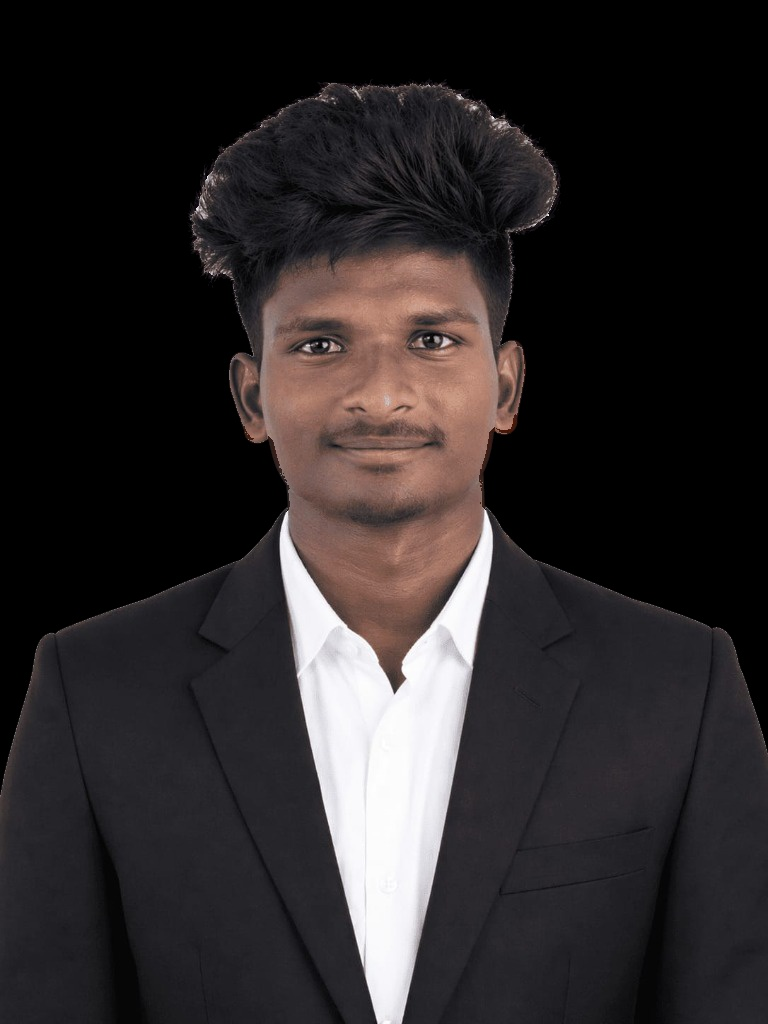
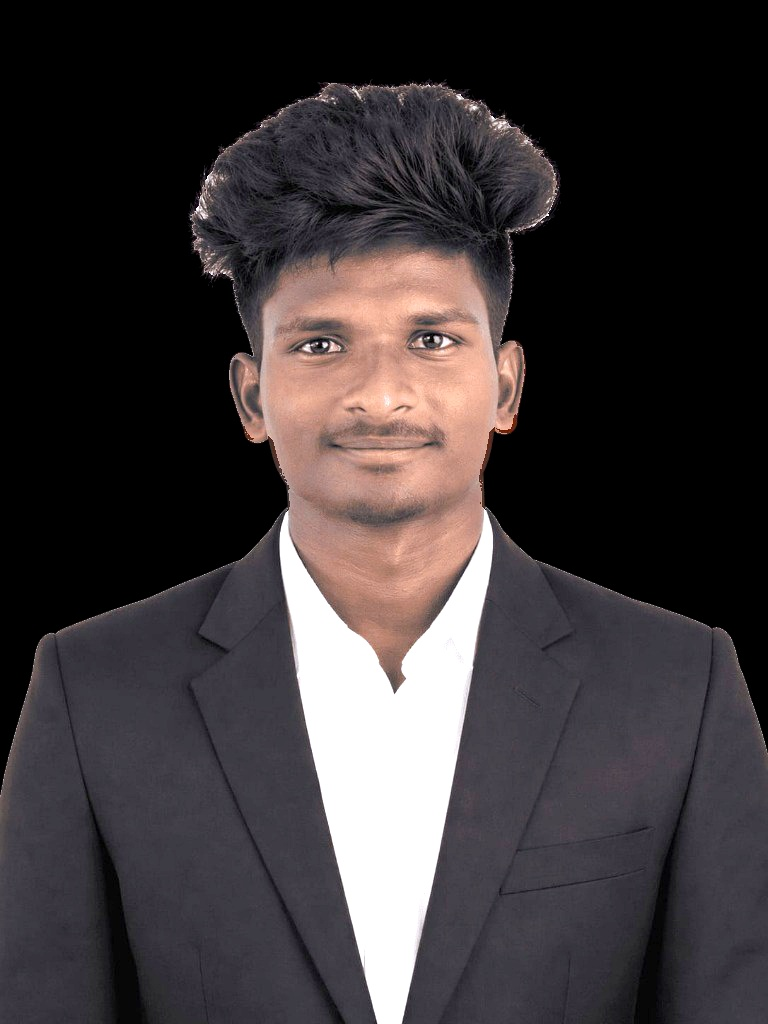
Brighten Bala face portrait and enable direct student confirmation email autoresponse

diff --git a/code.html b/code.html
@@ -2245,33 +2245,53 @@ document.addEventListener('DOMContentLoaded', () => {
           displayEnrollmentSuccess(enrollData, enrollId);
         });
       } else {
-        // Fallback: FormSubmit (dispatches ONLY to official.codelytic@gmail.com)
+        // FormSubmit with automatic student confirmation delivery
+        const studentConfirmMessage =
+          'Dear ' + fullName + ',\n\n' +
+          '🎉 Congratulations! Your seat in ' + courseName + ' at Codelytic EduTech Software has been successfully reserved!\n\n' +
+          '====================================\n' +
+          'ENROLLMENT CONFIRMATION DETAILS\n' +
+          '====================================\n' +
+          '• Enrollment ID: ' + enrollId + '\n' +
+          '• Student Name: ' + fullName + '\n' +
+          '• Registered Email: ' + email + '\n' +
+          '• Registered WhatsApp: ' + whatsapp + '\n' +
+          '• Enrolled Program: ' + courseName + '\n' +
+          '• Department: ' + department + '\n' +
+          '• Year of Study: ' + yearOfStudy + '\n\n' +
+          '====================================\n' +
+          'WHAT TO EXPECT NEXT:\n' +
+          '====================================\n' +
+          '1. Mentorship Onboarding: Our admissions team will reach out via WhatsApp (' + whatsapp + ') within 24 hours.\n' +
+          '2. Curriculum Access: You will receive your complete learning module syllabus and batch schedule.\n' +
+          '3. 1-on-1 Guidance: Your dedicated mentor will be assigned for personalized doubts and capstone project support.\n\n' +
+          'If you have any questions, you can reply directly to this email or reach us at official.codelytic@gmail.com.\n\n' +
+          'Welcome to Codelytic — Innovating Education!\n\n' +
+          'Warm regards,\n' +
+          'Admissions & Mentoring Team\n' +
+          'Codelytic EduTech Software\n' +
+          'https://officialcodelytic.github.io/Codelytic-EduTech-Software-Website/';
+
         try {
           fetch('https://formsubmit.co/ajax/official.codelytic@gmail.com', {
             method: 'POST',
             headers: { 'Content-Type': 'application/json', 'Accept': 'application/json' },
             body: JSON.stringify({
               _subject: 'New Student Enrollment - ' + courseName + ' [' + enrollId + ']',
-              student_name: fullName,
-              student_email: email,
-              whatsapp_number: whatsapp,
-              year_of_study: yearOfStudy,
-              department: department,
-              course_name: courseName,
-              enrollment_id: enrollId,
-              _replyto: email
+              name: fullName,
+              email: email,
+              _replyto: email,
+              _autoresponse: studentConfirmMessage,
+              _template: 'table',
+              'Enrollment ID': enrollId,
+              'Student Name': fullName,
+              'Student Email': email,
+              'WhatsApp Number': whatsapp,
+              'Course Enrolled': courseName,
+              'Department': department,
+              'Year of Study': yearOfStudy
             })
-          }).catch(function() {});
-          // Student confirmation fallback via FormSubmit
-          fetch('https://formsubmit.co/ajax/' + encodeURIComponent(email), {
-            method: 'POST',
-            headers: { 'Content-Type': 'application/json', 'Accept': 'application/json' },
-            body: JSON.stringify({
-              _subject: 'Enrollment Confirmation - Codelytic: ' + courseName,
-              message: 'Dear ' + fullName + ', You have successfully enrolled in ' + courseName + ' at Codelytic! Enrollment ID: ' + enrollId + '. Our team will contact you on WhatsApp: ' + whatsapp + '. - Codelytic Team',
-              _replyto: 'official.codelytic@gmail.com'
-            })
-          }).catch(function() {});
+          }).catch(function(err) { console.warn('Enrollment dispatch error:', err); });
         } catch(ex) {}
         displayEnrollmentSuccess(enrollData, enrollId);
       }

diff --git a/index.html b/index.html
@@ -2245,33 +2245,53 @@ document.addEventListener('DOMContentLoaded', () => {
           displayEnrollmentSuccess(enrollData, enrollId);
         });
       } else {
-        // Fallback: FormSubmit (dispatches ONLY to official.codelytic@gmail.com)
+        // FormSubmit with automatic student confirmation delivery
+        const studentConfirmMessage =
+          'Dear ' + fullName + ',\n\n' +
+          '🎉 Congratulations! Your seat in ' + courseName + ' at Codelytic EduTech Software has been successfully reserved!\n\n' +
+          '====================================\n' +
+          'ENROLLMENT CONFIRMATION DETAILS\n' +
+          '====================================\n' +
+          '• Enrollment ID: ' + enrollId + '\n' +
+          '• Student Name: ' + fullName + '\n' +
+          '• Registered Email: ' + email + '\n' +
+          '• Registered WhatsApp: ' + whatsapp + '\n' +
+          '• Enrolled Program: ' + courseName + '\n' +
+          '• Department: ' + department + '\n' +
+          '• Year of Study: ' + yearOfStudy + '\n\n' +
+          '====================================\n' +
+          'WHAT TO EXPECT NEXT:\n' +
+          '====================================\n' +
+          '1. Mentorship Onboarding: Our admissions team will reach out via WhatsApp (' + whatsapp + ') within 24 hours.\n' +
+          '2. Curriculum Access: You will receive your complete learning module syllabus and batch schedule.\n' +
+          '3. 1-on-1 Guidance: Your dedicated mentor will be assigned for personalized doubts and capstone project support.\n\n' +
+          'If you have any questions, you can reply directly to this email or reach us at official.codelytic@gmail.com.\n\n' +
+          'Welcome to Codelytic — Innovating Education!\n\n' +
+          'Warm regards,\n' +
+          'Admissions & Mentoring Team\n' +
+          'Codelytic EduTech Software\n' +
+          'https://officialcodelytic.github.io/Codelytic-EduTech-Software-Website/';
+
         try {
           fetch('https://formsubmit.co/ajax/official.codelytic@gmail.com', {
             method: 'POST',
             headers: { 'Content-Type': 'application/json', 'Accept': 'application/json' },
             body: JSON.stringify({
               _subject: 'New Student Enrollment - ' + courseName + ' [' + enrollId + ']',
-              student_name: fullName,
-              student_email: email,
-              whatsapp_number: whatsapp,
-              year_of_study: yearOfStudy,
-              department: department,
-              course_name: courseName,
-              enrollment_id: enrollId,
-              _replyto: email
+              name: fullName,
+              email: email,
+              _replyto: email,
+              _autoresponse: studentConfirmMessage,
+              _template: 'table',
+              'Enrollment ID': enrollId,
+              'Student Name': fullName,
+              'Student Email': email,
+              'WhatsApp Number': whatsapp,
+              'Course Enrolled': courseName,
+              'Department': department,
+              'Year of Study': yearOfStudy
             })
-          }).catch(function() {});
-          // Student confirmation fallback via FormSubmit
-          fetch('https://formsubmit.co/ajax/' + encodeURIComponent(email), {
-            method: 'POST',
-            headers: { 'Content-Type': 'application/json', 'Accept': 'application/json' },
-            body: JSON.stringify({
-              _subject: 'Enrollment Confirmation - Codelytic: ' + courseName,
-              message: 'Dear ' + fullName + ', You have successfully enrolled in ' + courseName + ' at Codelytic! Enrollment ID: ' + enrollId + '. Our team will contact you on WhatsApp: ' + whatsapp + '. - Codelytic Team',
-              _replyto: 'official.codelytic@gmail.com'
-            })
-          }).catch(function() {});
+          }).catch(function(err) { console.warn('Enrollment dispatch error:', err); });
         } catch(ex) {}
         displayEnrollmentSuccess(enrollData, enrollId);
       }
